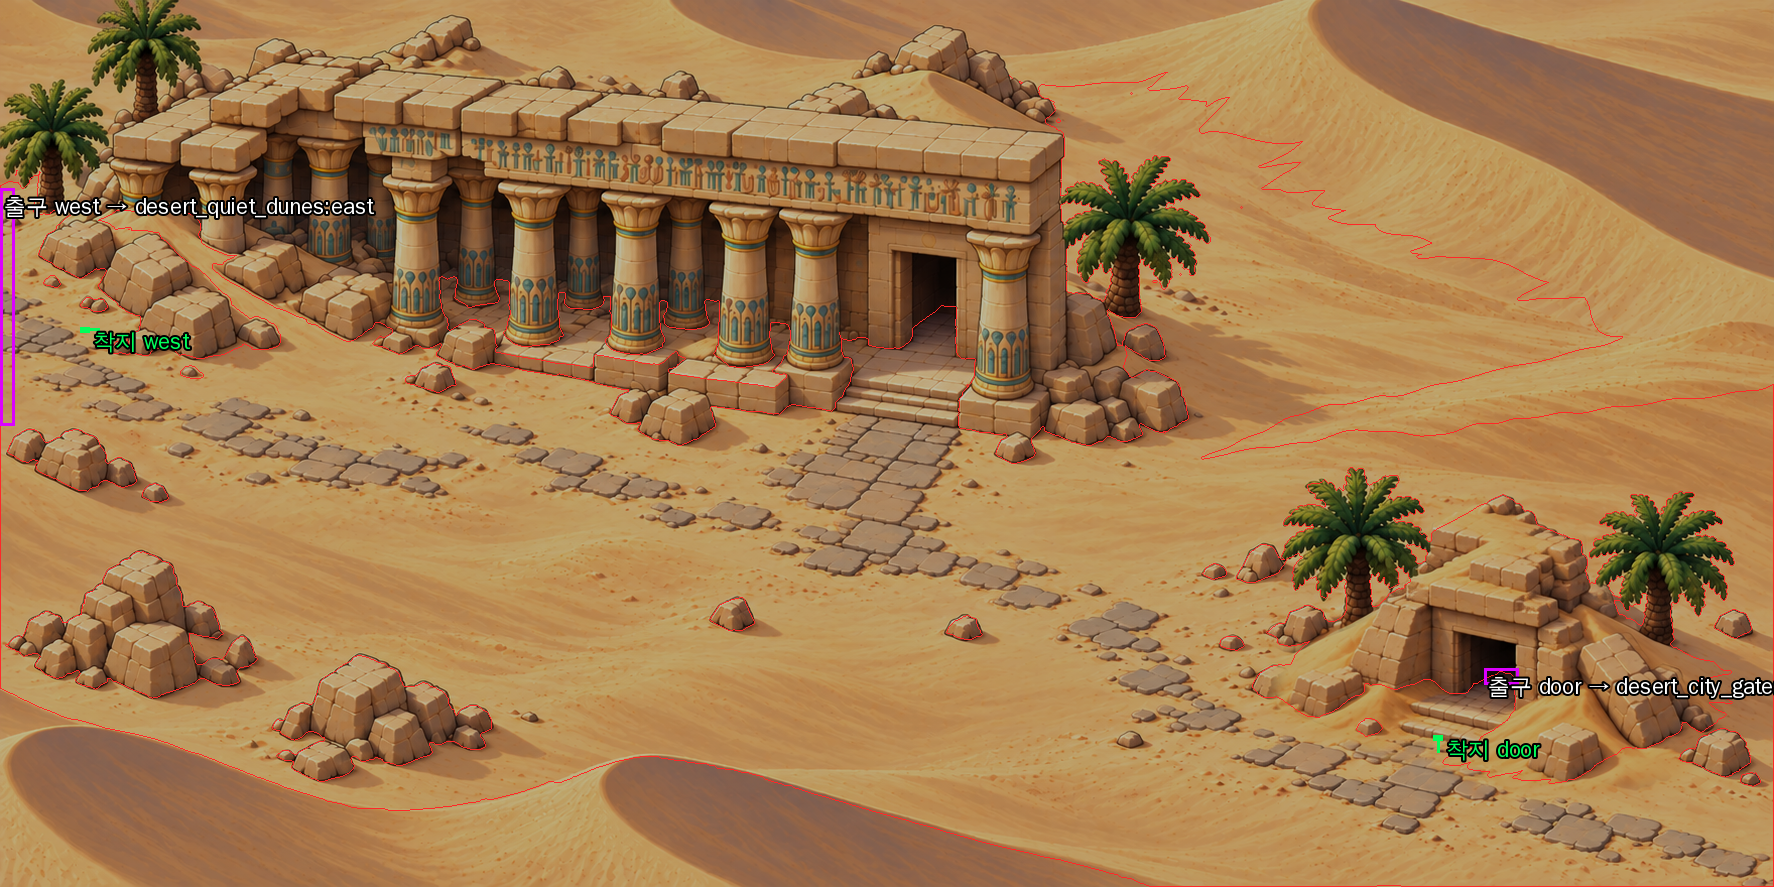
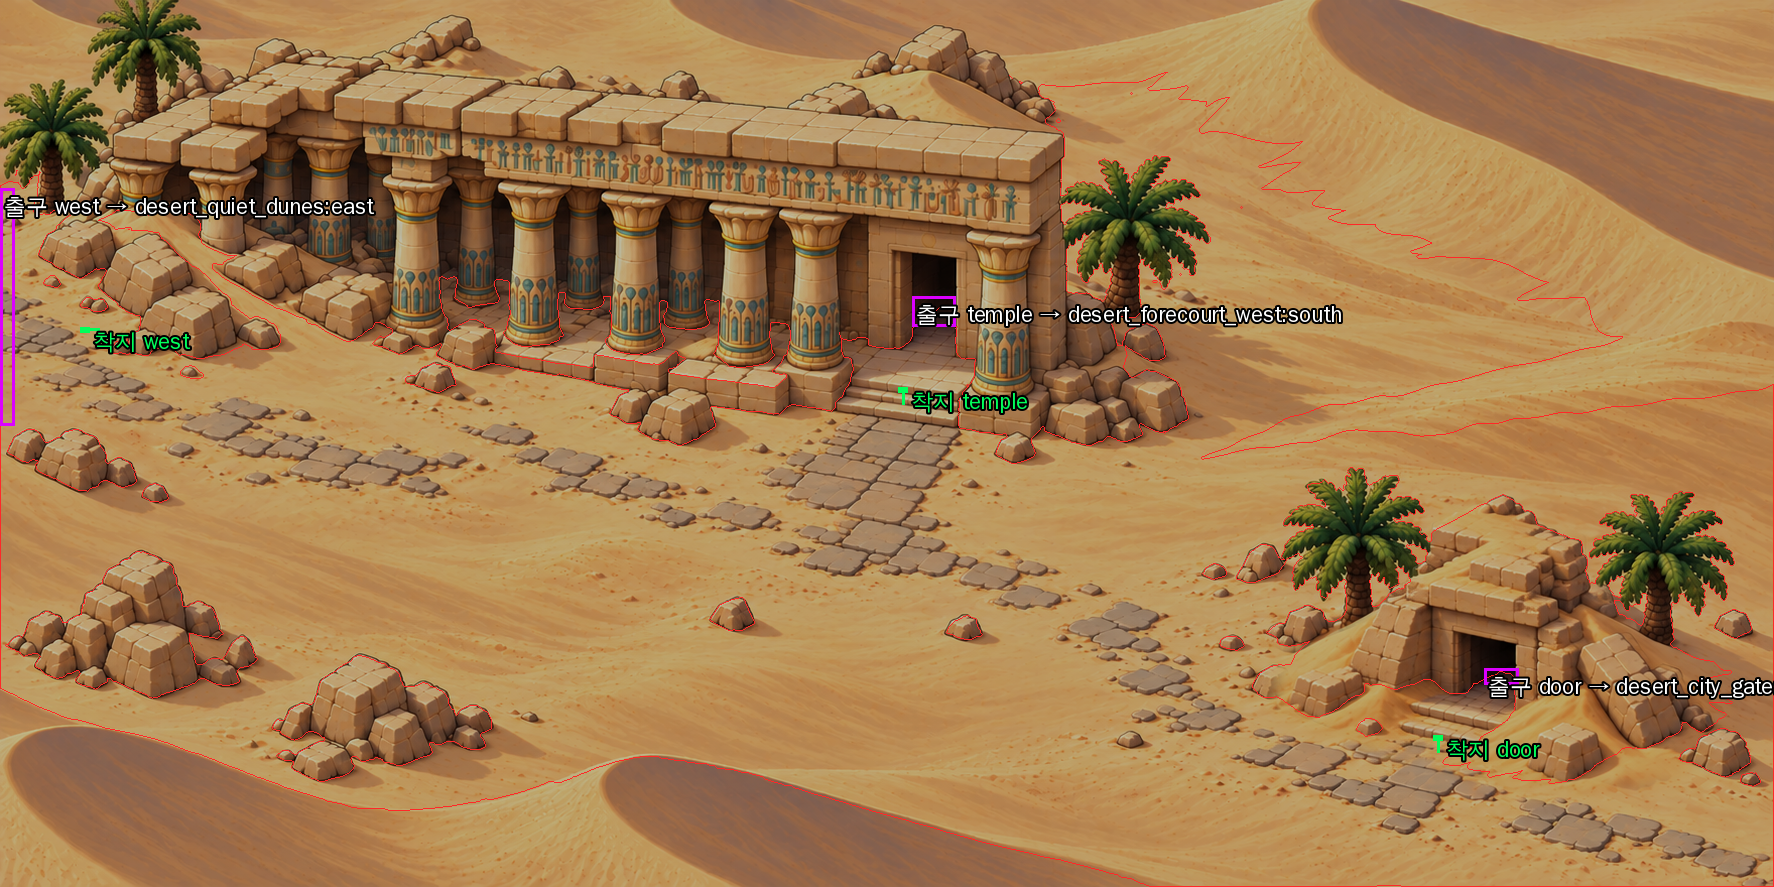
02 신전 문 ↔ T1W 연결(계획서 3절 02 ↔ T1W): 02 신전 문턱 출구·계단 위 착지, T1W 석재 마당 아래 끝 출구·마당 착지(둘 다 사용자 파란 원), 걷기 검사에 왕복 추가
Claude-Session: https://claude.ai/code/session_01VEprA6JeTcQVX6tKD4oAcT

Changed region(s): [[0.4961, 0.3348, 0.7751, 0.3653], [0.4961, 0.4262, 0.5891, 0.487]]

diff --git a/tools/maps/desert.py b/tools/maps/desert.py
@@ -53,7 +53,7 @@ ALPHA = 128
 GAP = 3
 # landings the user put by hand (their mark wins over GAP; still at least 2 people-widths): 11 door, the blue mark on the
 # stairs below the door ("파란색으로 수정", docs/consult/desert/maps/user-11-door-landing.jpg), 2.47
-BY_USER = {('desert_city_gate', 'door')}
+BY_USER = {('desert_city_gate', 'door'), ('desert_forecourt_west', 'south'), ('desert_buried_temple', 'temple')}   # the user's blue circles (사용자 10-19): T1W yard's foot, 02 temple steps
 # collision pictures the user did not draw: made by tools/maps/desert-collision.py to the user's 01·02 rules
 MADE = {'03_고요한사구_06통합.png', '04_메마른모래벌판.png'}
 SRC = ROOT / '사막맵'
@@ -85,8 +85,11 @@ FRONT = {
 OMBOS_BACK = {'x': 37.5, 'y': 22.4, 'dir': 'left'}   # 3.2 tiles from the exit (GAP)
 
 # id, name, art file, collision file, ways in {name: (source px, facing)}, exits [(name, source box x0,y0,x1,y1, to, at)]. The big maps run 01 → 04 → 03 → 02 across their side edges (docs/ASTRA-DESERT-05-20-GUIDE.md
-# "01 황금 사구해 → 04 메마른 모래벌판 → 03 고요한 사구 → 02 매몰 신전 사막", no new road drawn). 02's temple door
-# (T1W), its lower right stone exit (11) and its right side (10) wait for those places.
+# "01 황금 사구해 → 04 메마른 모래벌판 → 03 고요한 사구 → 02 매몰 신전 사막", no new road drawn). 02's right side (10)
+# waits for that place. 02's temple door ↔ T1W (OPUS 사막 계획서 3절 "02 ↔ T1W ↔ T1E ↔ 15", 02 "연결: 03·T1W·11·10";
+# ASTRA-DESERT-05-20-GUIDE T1W "양쪽 끝의 02·15 연결", "한쪽 벽을 넘은 큰 모래 경사"): in 02 the doorway of the small
+# temple (walkable inside it in the user's collision up to y 310), in T1W the bottom edge of the stone yard below the
+# user's blue circle (the landing, 사용자 10-19); T1W's right gate is T1E's (later)
 PLACES = [
     ('desert_golden_dunes', '황금 사구해', '01_황금사구해_닫힘.png', '01.png',
      {'west': ((85, 294), 'right'), 'east': ((1501, 750), 'left')},
@@ -100,8 +103,9 @@ PLACES = [
     ('desert_buried_temple', '매몰 신전 사막', '02_매몰신전사막.png', '02_매몰신전사막.png',
      # the west way out only where the paved path meets the edge (user's circle); the door landing on the stone path below
      # the door, GAP from it (it was just inside the door, user's mark, until the GAP rule)
-     {'west': ((85, 330), 'right'), 'door': ((1438, 738), 'down')},
-     [('west', (0, 188, 14, 425), 'desert_quiet_dunes', 'east'), ('door', (1484, 668, 1518, 684), 'desert_city_gate', 'outside')]),
+     {'west': ((85, 330), 'right'), 'door': ((1438, 738), 'down'), 'temple': ((903, 390), 'down')},   # temple: the user's blue circle on the temple steps
+     [('west', (0, 188, 14, 425), 'desert_quiet_dunes', 'east'), ('door', (1484, 668, 1518, 684), 'desert_city_gate', 'outside'),
+      ('temple', (912, 296, 956, 326), 'desert_forecourt_west', 'south')]),
     # 11 매몰 도시의 출입구: 02 오른쪽 아래 야자수 사이 돌 문을 가까이 본 곳 (user: "누가 봐도 여기잖아"); 계단 위 문 → 17
     ('desert_city_gate', '매몰 도시의 출입구', '11_매몰도시출입구.png', '11_매몰도시출입구.png',
      {'outside': ((300, 1350), 'up'), 'door': ((672, 468), 'down')},
@@ -120,11 +124,12 @@ PLACES = [
     ('desert_colonnade', '매몰 신전의 열주홀', '15_열주홀.png', '15_열주홀.png',
      {'east': ((1680, 620), 'left')},
      []),
-    # T1W 서쪽 제례 앞뜰 (desert_forecourt_west): 가죽 방패병 한 마리 전투(B3, data/desert.json field). 02·T1E 출입은 아직
-    # 없음: 석재 마당 왼쪽의 시험 착지 하나(시험 이동으로만)
+    # T1W 서쪽 제례 앞뜰 (desert_forecourt_west): 가죽 방패병 한 마리 전투(B3, data/desert.json field). 02 ↔ 모래 경사 아래 끝
+    # (south); T1E 출입(오른쪽 문)은 아직. yard: 석재 마당 왼쪽 착지(시험들이 씀)
     ('desert_forecourt_west', '서쪽 제례 앞뜰', 'T1W_서쪽제례앞뜰.png', 'T1W_서쪽제례앞뜰.png',
-     {'yard': ((900, 650), 'right')},
-     []),
+     # south: the user's blue circle on the stone yard (centre about 1273, 795; inside it, 2 people-widths from the exit)
+     {'yard': ((900, 650), 'right'), 'south': ((1273, 778), 'up')},
+     [('south', (1060, 873, 1420, 887), 'desert_buried_temple', 'temple')]),
 ]
 
 
